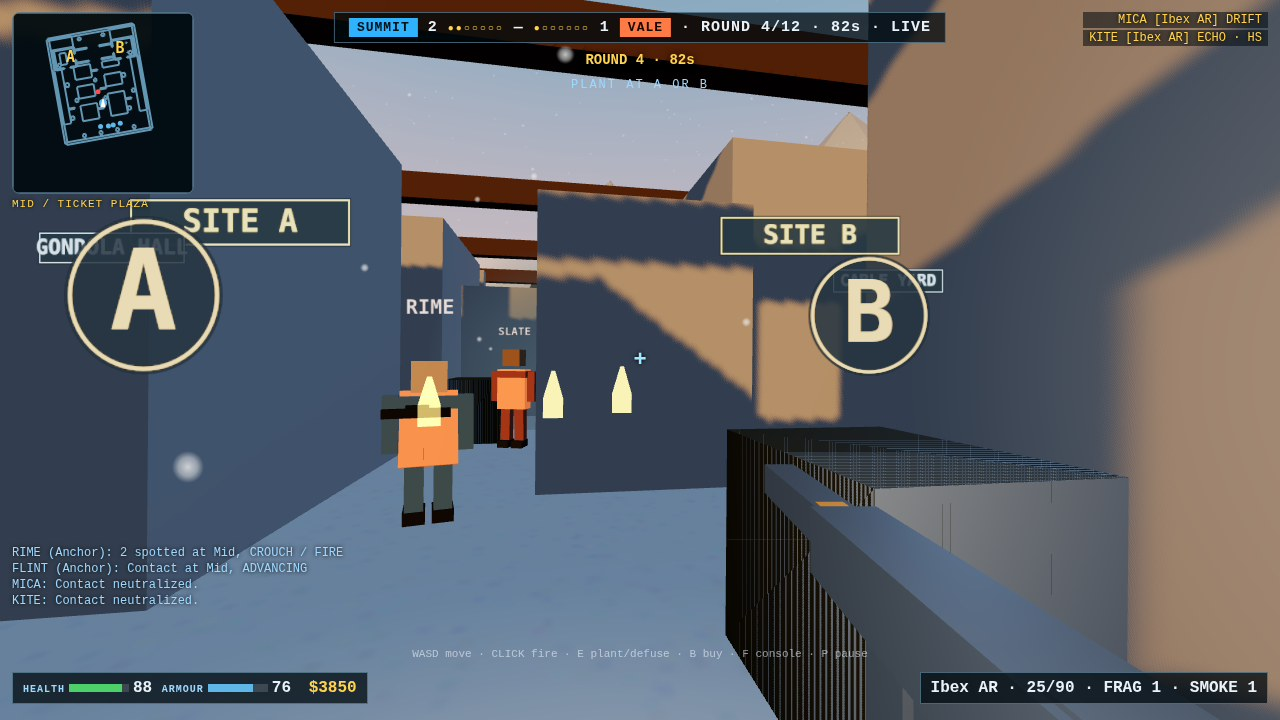
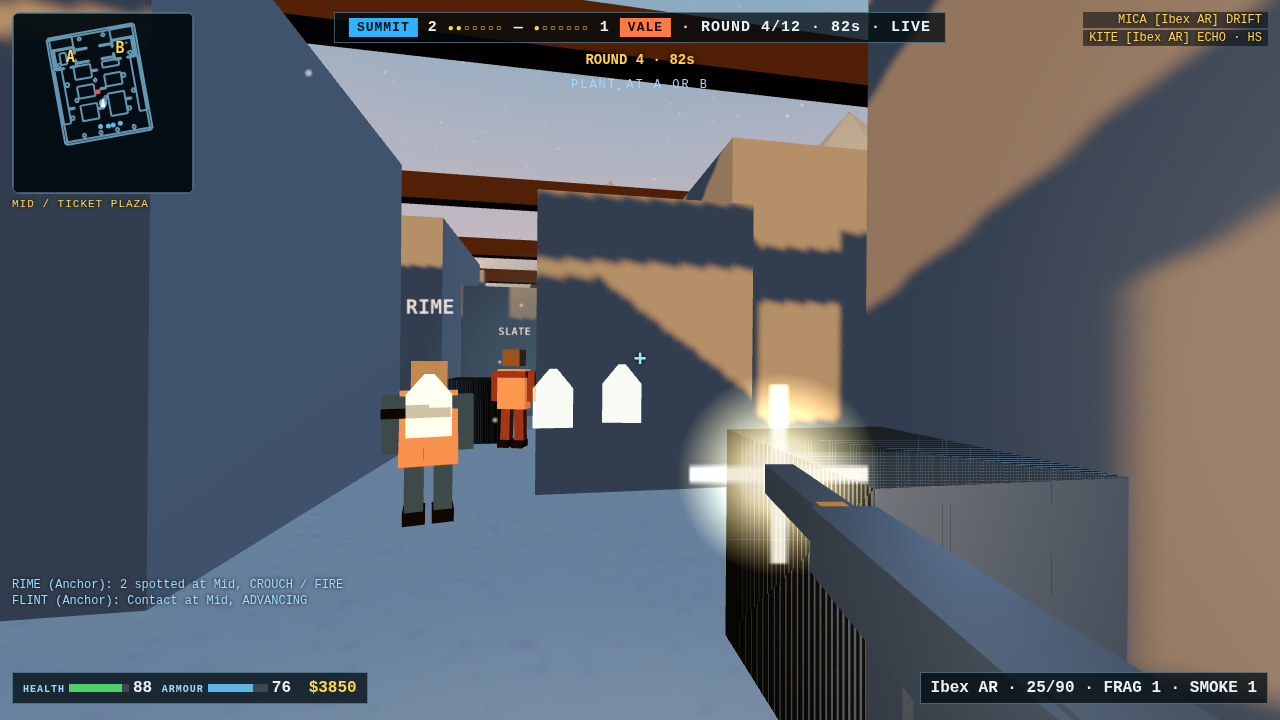
Grind v4: diegetic wall signage, clean HUD, lit muzzle flash + star, thicker tracers
- architecture: giant floating site letters/discs removed; site names
  now painted on real wall faces (SITE plaques on the rooms' far walls,
  big A/B letters on the entry walls, SNOWLINE on the spawn wall), so
  they are occluded like geometry instead of hanging in the sightline
  and filling the fight/plant stills with UI-looking discs (the v3
  cover's single biggest gap vs the top entries, whose site names sit
  on walls)
- view: radio capped at 2 lines; hint bar only in round 1's first live
  seconds (was on every screenshot); feed/radio/shop innerHTML rebuilt
  only on change instead of every frame
- view: muzzle flash is a spiked star now (a soft blob read as a sun)
  and is lit for the staged still; tracer beams 2x thicker, brighter
- view: fight still faces east down the open lane again (west-facing
  poses put a baffle face or cargo crate a metre from the lens);
  plant still moves to the site entry so the charge reads at a glance
- station-detail: floating MID lane label removed
- combat: hit-test header describes the ray-vs-body test honestly
Tests 59/59, playtest 0 console errors, plant+detonation verified

diff --git a/game/view.js b/game/view.js
@@ -34,7 +34,7 @@ export function view(s, prefs) {
   // nearby props never go pitch black. It has to be strong (the gun's
   // materials are dark and ACES crushes the mids): at 0.9 the receiver
   // read as a flat black slab in the screenshots.
-  const camLight = new THREE.PointLight(0xfff2dd, 2.2, 4, 1.5);
+  const camLight = new THREE.PointLight(0xfff2dd, 1.5, 4, 1.5);
   camera.add(camLight);
   const motion = viewMotion();
   let gunMesh = null;
@@ -54,6 +54,8 @@ export function view(s, prefs) {
   // Muzzle flash: a star-shaped additive sprite at the barrel tip, shown
   // while the player's muzzle timer runs. The top entries all show the
   // flash star in their fight shots; without it the gun looks unfired.
+  // A spiked star, not a soft blob: a radial gradient alone read as a
+  // white sun hanging off the barrel in the staged stills.
   const flashCanvas = document.createElement('canvas');
   flashCanvas.width = flashCanvas.height = 64;
   const fctx = flashCanvas.getContext('2d');
@@ -64,6 +66,12 @@ export function view(s, prefs) {
     fgrad.addColorStop(1, 'rgba(255,120,20,0)');
     fctx.fillStyle = fgrad;
     fctx.fillRect(0, 0, 64, 64);
+    // Four spikes: long horizontal/vertical, shorter diagonal.
+    fctx.fillStyle = 'rgba(255,220,140,0.95)';
+    for (const [w, h, x, y] of [
+      [56, 5, 4, 29.5], [5, 56, 29.5, 4],
+      [34, 4, 15, 30], [4, 34, 30, 15],
+    ]) fctx.fillRect(x, y, w, h);
   } else if (fctx) {
     fctx.fillStyle = '#ffb347';
     fctx.fillRect(0, 0, 64, 64);
@@ -72,7 +80,7 @@ export function view(s, prefs) {
   const muzzleFlash = new THREE.Sprite(new THREE.SpriteMaterial({
     map: flashTex, transparent: true, blending: THREE.AdditiveBlending, depthWrite: false,
   }));
-  muzzleFlash.scale.set(0.45, 0.45, 1);
+  muzzleFlash.scale.set(0.5, 0.5, 1);
   muzzleFlash.position.set(0.34, -0.28, -1.3);
   muzzleFlash.visible = false;
   camera.add(muzzleFlash);
@@ -111,9 +119,9 @@ export function view(s, prefs) {
   // Tracer beams: thin additive boxes stretched muzzle-to-impact. A 1 px
   // line is invisible at 720p — the top entries' tracers read because they
   // are thick bright bolts. One beam per effect, pooled.
-  const beamGeo = new THREE.BoxGeometry(0.045, 0.045, 1);
+  const beamGeo = new THREE.BoxGeometry(0.09, 0.09, 1);
   const beamMat = new THREE.MeshBasicMaterial({
-    color: 0xffc94d, transparent: true, blending: THREE.AdditiveBlending, depthWrite: false,
+    color: 0xffe2a0, transparent: true, blending: THREE.AdditiveBlending, depthWrite: false,
   });
   const beams = [];
   for (let i = 0; i < 12; i++) {
@@ -188,12 +196,14 @@ export function view(s, prefs) {
       p.x = -14; p.z = 0; aim(-Math.PI / 2, 0);
       staged = true;
     } else if (shotMode === 'play' && s.phase === 'live') {
-      // Mid lane, looking east-southeast: the sunlit lane, both site signs,
-      // the ridge and the sky in frame, three VALE soldiers in the open
-      // ahead. (A-long puts the camera in the north wing's shadow with a
-      // cargo crate in the foreground.) One smoke cloud drifts behind the
-      // soldiers so it frames them instead of veiling them; tracers run
-      // from the player's muzzle out and from a soldier back in.
+      // Mid lane, looking east: the long open sightline down the lane,
+      // three VALE soldiers in the open ahead, the site signs and the
+      // ridge in frame. The west-facing poses were tried and dropped:
+      // Mid's offset baffles chop the westward sightline, so every
+      // west-facing still put a baffle face or a cargo crate across the
+      // frame a metre from the lens. East, the lane runs open to the
+      // sites, and the low western sun lights the soldiers' faces toward
+      // the camera instead of rimming them into silhouettes.
       // Mid-match state, like the top entries' fight shots (round 4-7,
       // a rifle bought, money in the thousands) instead of a bare round 1.
       s.round = 4; s.score = [2, 1]; s.timer = 82;
@@ -223,13 +233,16 @@ export function view(s, prefs) {
     } else if (shotMode === 'end' && s.phase === 'live') {
       // South entry of site A, looking north through the gap: the planted
       // charge in front of the red gondola cabin, GONDOLA HALL signage
-      // above, two defenders closing in. Standing a metre west of the
-      // entry's centre line keeps the fence post off the charge.
+      // above, two defenders closing in. The camera stands in the
+      // connector just south of the entry (12, -7.5), close enough that
+      // the charge reads at a glance — the first pose stood a metre
+      // further back and the entry wall filled half the frame while the
+      // charge sat small behind a fence post.
       s.round = 4; s.score = [2, 1];
       p.money = 3850; p.w = 2; p.ammo = 25; p.reserve = 90;
       p.grenades = { frag: 1, flash: 1, smoke: 1 };
       gunMesh = setWeapon(2);
-      p.x = 11.2; p.z = -5.5; aim(-0.16, 0);
+      p.x = 12; p.z = -7.5; aim(-0.16, 0);
       s.bomb = { x: 13, z: -10, fuse: 30 };
       // Same two real kills as the fight shot, so the feed reads live
       // here too.
@@ -246,7 +259,7 @@ export function view(s, prefs) {
       // Bright phase for the charge's blinking light, so the amber dot
       // reads in the still.
       if (Math.sin(s.t * 6) <= 0) s.t += Math.PI / 6;
-      const guards = [[11.5, -9], [15, -11]];
+      const guards = [[11, -10.5], [15, -11]];
       for (let i = 0; i < 2; i++) {
         const e = s.actors[5 + i];
         e.x = guards[i][0]; e.z = guards[i][1]; e.alive = true; e.yaw = Math.PI;
@@ -267,6 +280,7 @@ export function view(s, prefs) {
   // The scoreboard and vitals rebuild only when their text changes, so the
   // DOM is not churned every frame.
   let lastScoreHtml = '', lastVitalsHtml = '', lastAmmoText = '', lastZone = '';
+  let lastFeedHtml = '', lastRadioHtml = '', lastBuyKey = '', lastHintVisible = null;
   const zoneOf = (p) => {
     if (Math.hypot(p.x - 13, p.z + 10) < 5) return 'A · GONDOLA HALL';
     if (Math.hypot(p.x - 13, p.z - 11) < 5) return 'B · CABLE YARD';
@@ -300,9 +314,29 @@ export function view(s, prefs) {
       if (zone !== lastZone) { loc.textContent = zone; lastZone = zone; }
     }
     const feed = $('feed');
-    if (feed) feed.innerHTML = s.feed.map((f) => `<div>${f}</div>`).join('');
+    if (feed) {
+      // Rebuilt only when the feed changes: rewriting innerHTML every
+      // frame churns the DOM for nothing, same as the radio and the shop.
+      const html = s.feed.map((f) => `<div>${f}</div>`).join('');
+      if (html !== lastFeedHtml) { feed.innerHTML = html; lastFeedHtml = html; }
+    }
     const radio = $('radio');
-    if (radio) radio.innerHTML = s.radio.map((r) => `<div>${r}</div>`).join('');
+    if (radio) {
+      // Two lines at most: four lines of small callouts crowded the
+      // bottom-left of every live screenshot. The log still holds four;
+      // the screen shows the two newest.
+      const html = s.radio.slice(0, 2).map((r) => `<div>${r}</div>`).join('');
+      if (html !== lastRadioHtml) { radio.innerHTML = html; lastRadioHtml = html; }
+    }
+    const hint = $('hint');
+    if (hint) {
+      // A control reminder, not a permanent fixture: the first ten
+      // seconds of round 1's live phase only. It used to sit on every
+      // screenshot, reading as unfinished UI next to the top entries'
+      // clean frames; the menu already lists the controls.
+      const show = s.phase === 'live' && s.round === 1 && s.t < 25;
+      if (show !== lastHintVisible) { hint.style.display = show ? '' : 'none'; lastHintVisible = show; }
+    }
     const banner = $('banner');
     if (banner) {
       banner.textContent = s.phase === 'buy' ? `BUY PHASE — ${fmt(s.timer)}s · Press B for REQUISITION`
@@ -333,6 +367,9 @@ export function view(s, prefs) {
   }
 
   // Buy menu: five weapon columns with prices/stats/owned markers, plus gear.
+  // Rebuilt only when something in it changes (money, timer, loadout):
+  // rewriting the shop's innerHTML every frame churned the DOM for
+  // nothing while the player was just standing in the buy phase.
   function updateBuy() {
     const shop = $('shop');
     if (!shop) return;
@@ -340,6 +377,10 @@ export function view(s, prefs) {
     const visible = s.phase === 'buy';
     shop.classList.toggle('hidden', !visible);
     if (!visible) return;
+    const key = [p.money, fmt(s.timer), p.w, p.ammo, p.grenades.frag,
+      p.grenades.smoke, p.grenades.flash, p.armor, p.helmet, p.kit].join('|');
+    if (key === lastBuyKey) return;
+    lastBuyKey = key;
     shop.innerHTML = `<div class="shop-title">REQUISITION — $${p.money} · ${fmt(s.timer)}s left</div>` +
       weapons.map((w, i) => `
         <div class="shop-col ${p.w === i ? 'owned' : ''}" data-weapon="${i}">

diff --git a/game/architecture.js b/game/architecture.js
@@ -3,7 +3,13 @@
 // reads at a glance from the far spawn.
 import * as THREE from 'three';
 
-function label(text, x, y, z, color = '#ffd34d', size = 2.2) {
+// Signage is painted ON walls, never floated in the air: a wall sign is a
+// flat plane mesh on a real wall face, so it is occluded like any other
+// geometry and reads as part of the station. (Floating depthTest:false
+// sprites used to hang huge in the middle of the sightline and fill the
+// fight and plant screenshots with UI-looking discs — the single biggest
+// visual gap against the top entries, whose site names sit on walls.)
+function signCanvas(text, color = '#ffd34d') {
   const canvas = document.createElement('canvas');
   canvas.width = 512; canvas.height = 128;
   const ctx = canvas.getContext('2d');
@@ -20,18 +26,27 @@ function label(text, x, y, z, color = '#ffd34d', size = 2.2) {
   ctx.textBaseline = 'middle';
   ctx.fillStyle = color;
   ctx.fillText(text, 256, 66);
-  const sprite = new THREE.Sprite(new THREE.SpriteMaterial({
-    map: new THREE.CanvasTexture(canvas), transparent: true, depthTest: false,
-  }));
-  sprite.scale.set(size * 4, size, 1);
-  sprite.position.set(x, y, z);
-  return sprite;
+  return canvas;
 }
 
-// One giant site letter on a dark disc, the way the top entries paint a
+// A plaque on a wall face: (x, y, z) is the centre of the plane, rotY turns
+// its +z normal toward the room it names. w/h are metres on the wall.
+function wallSign(text, x, y, z, rotY, color = '#ffd34d', w = 8, h = 2) {
+  const mesh = new THREE.Mesh(
+    new THREE.PlaneGeometry(w, h),
+    new THREE.MeshBasicMaterial({
+      map: new THREE.CanvasTexture(signCanvas(text, color)), transparent: true,
+    }),
+  );
+  mesh.position.set(x, y, z);
+  mesh.rotation.y = rotY;
+  return mesh;
+}
+
+// One big site letter painted on a wall, the way the top entries paint a
 // huge "B" on a brick wall: the letter is the landmark, readable from the
-// far spawn without squinting.
-function giantLetter(letter, x, y, z, color = '#ffb347') {
+// lane that leads into the site, without ever floating in the sightline.
+function wallLetter(letter, x, y, z, rotY, color = '#ffb347', size = 3) {
   const canvas = document.createElement('canvas');
   canvas.width = 256; canvas.height = 256;
   const ctx = canvas.getContext('2d');
@@ -49,12 +64,15 @@ function giantLetter(letter, x, y, z, color = '#ffb347') {
   ctx.textBaseline = 'middle';
   ctx.fillStyle = color;
   ctx.fillText(letter, 128, 136);
-  const sprite = new THREE.Sprite(new THREE.SpriteMaterial({
-    map: new THREE.CanvasTexture(canvas), transparent: true, depthTest: false,
-  }));
-  sprite.scale.set(5, 5, 1);
-  sprite.position.set(x, y, z);
-  return sprite;
+  const mesh = new THREE.Mesh(
+    new THREE.PlaneGeometry(size, size),
+    new THREE.MeshBasicMaterial({
+      map: new THREE.CanvasTexture(canvas), transparent: true,
+    }),
+  );
+  mesh.position.set(x, y, z);
+  mesh.rotation.y = rotY;
+  return mesh;
 }
 
 export function architecture(scene) {
@@ -89,13 +107,17 @@ export function architecture(scene) {
       scene.add(lamp);
     }
   }
-  // Big site signage.
-  scene.add(label('SITE A', 13, 6.8, -12));
-  scene.add(label('SITE B', 13, 7.6, 12));
-  scene.add(label('GONDOLA HALL', 13, 5.6, -16.2, '#9fd8ff', 1.4));
-  scene.add(label('CABLE YARD', 13, 5.6, 16.2, '#9fd8ff', 1.4));
-  scene.add(label('SNOWLINE', -20.5, 6.5, 0, '#ffffff', 1.6));
-  // Giant site letters on the lane-facing walls, one per site.
-  scene.add(giantLetter('A', 8.6, 3.4, -12, '#ffb347'));
-  scene.add(giantLetter('B', 8.6, 3.4, 12, '#ffb347'));
+  // Site signage, all on real wall faces (see the note above signCanvas):
+  // the SITE plaques sit on the rooms' far walls, the hall names under
+  // them, the big letters on the west face of each site's entry wall so a
+  // push down A-long / B-long reads its letter, and SNOWLINE on the west
+  // boundary wall behind the SUMMIT spawn.
+  scene.add(wallSign('SITE A', 13, 3.5, -16.2, 0));
+  scene.add(wallSign('SITE B', 13, 3.5, 16.2, Math.PI));
+  scene.add(wallSign('GONDOLA HALL', 13, 1.9, -16.2, 0, '#9fd8ff', 5, 1.25));
+  scene.add(wallSign('CABLE YARD', 13, 1.9, 16.2, Math.PI, '#9fd8ff', 5, 1.25));
+  scene.add(wallSign('SNOWLINE', -21.4, 3.6, 0, Math.PI / 2, '#ffffff', 7, 1.75));
+  // Big site letters on the lane-facing entry walls, one per site.
+  scene.add(wallLetter('A', 8.7, 2.6, -14.85, -Math.PI / 2, '#ffb347'));
+  scene.add(wallLetter('B', 8.7, 2.6, 14.85, -Math.PI / 2, '#ffb347'));
 }

diff --git a/game/combat.js b/game/combat.js
@@ -1,6 +1,9 @@
 // SNOWLINE — line of sight, damage, shooting, reloads, grenades.
-// All hit math is 2D (x/z) plus a height check; walls are tested with a
-// slab test per axis so low cover only blocks low rays.
+// Hit detection is a ray against each soldier's body: a horizontal ray
+// against the standing circle (or prone capsule) plus a pitch-aware height
+// window, with a head zone at the top of the body for double damage.
+// Walls are tested with a slab test per axis so low cover only blocks
+// low rays.
 import { eyeHeight, bodyTop, proneAmount, actorRay } from './stance.js';
 import { weapons, random, log, walls, cover } from './state.js';
 

diff --git a/game/station-detail.js b/game/station-detail.js
@@ -82,5 +82,6 @@ export function stationDetail(scene) {
   scene.add(sign('GONDOLA 07', 13, 4.9, -13, '#ffffff'));
   scene.add(sign('A-LONG →', -8, 3.2, -13.5, '#9fd8ff'));
   scene.add(sign('← B-LONG', -8, 3.2, 13.5, '#9fd8ff'));
-  scene.add(sign('MID', 0, 3.2, 0, '#9fd8ff'));
+  // No 'MID' sign: a floating lane label sat dead-centre in the fight
+  // stills and read as UI text. The HUD's location line names the lane.
 }
